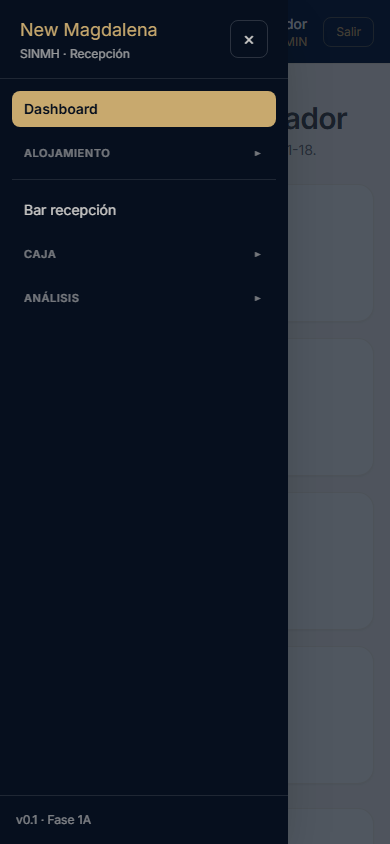
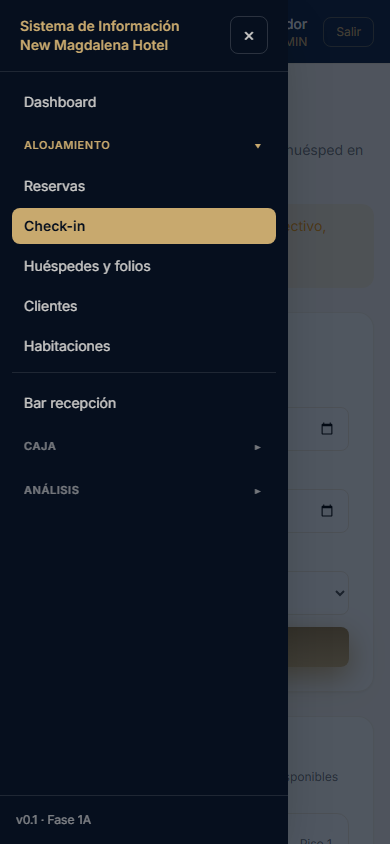
feat(ui): marca completa y breadcrumb por pantalla

diff --git a/frontend/src/components/AppLayout.tsx b/frontend/src/components/AppLayout.tsx
@@ -49,9 +49,33 @@ const navegacion: SeccionNavegacion[] = [
   },
 ];
 
+const breadcrumbs: Array<{ prefijo: string; modulo: string; pantalla: string }> = [
+  { prefijo: '/dashboard', modulo: 'Principal', pantalla: 'Dashboard' },
+  { prefijo: '/reservas', modulo: 'Alojamiento', pantalla: 'Reservas' },
+  { prefijo: '/checkin', modulo: 'Alojamiento', pantalla: 'Check-in' },
+  { prefijo: '/folios', modulo: 'Alojamiento', pantalla: 'Huéspedes y folios' },
+  { prefijo: '/clientes', modulo: 'Alojamiento', pantalla: 'Clientes' },
+  { prefijo: '/habitaciones', modulo: 'Alojamiento', pantalla: 'Habitaciones' },
+  { prefijo: '/bar', modulo: 'Bar y servicios', pantalla: 'Bar recepción' },
+  { prefijo: '/caja', modulo: 'Caja', pantalla: 'Caja y turnos' },
+  { prefijo: '/cartera', modulo: 'Caja', pantalla: 'Cartera' },
+  { prefijo: '/cuenta-socio', modulo: 'Caja', pantalla: 'Cuenta socio' },
+  { prefijo: '/reportes', modulo: 'Análisis', pantalla: 'Reportes' },
+  { prefijo: '/configuracion', modulo: 'Análisis', pantalla: 'Configuración' },
+];
+
+function obtenerBreadcrumb(pathname: string) {
+  const encontrado = breadcrumbs.find(
+    (item) => pathname === item.prefijo || pathname.startsWith(`${item.prefijo}/`)
+  );
+
+  return encontrado ?? { modulo: 'SINMH', pantalla: 'Recepción' };
+}
+
 export function AppLayout() {
   const { usuario, cerrarSesion } = useAuth();
   const location = useLocation();
+  const breadcrumb = obtenerBreadcrumb(location.pathname);
   const [menuMovil, setMenuMovil] = useState(false);
   const [seccionesAbiertas, setSeccionesAbiertas] = useState<Set<string>>(
     () => new Set()
@@ -202,8 +226,11 @@ export function AppLayout() {
     <div className="flex min-h-screen bg-cream">
       <aside className="hidden w-60 shrink-0 flex-col bg-navy-dark text-cream lg:flex">
         <div className="border-b border-white/10 px-6 py-5">
-          <p className="font-display text-lg text-gold">New Magdalena</p>
-          <p className="mt-0.5 text-xs text-cream/60">SINMH · Recepción</p>
+          <p className="font-display text-sm font-semibold leading-snug text-gold">
+            Sistema de Información
+            <br />
+            New Magdalena Hotel
+          </p>
         </div>
 
         {renderNavegacion()}
@@ -222,8 +249,11 @@ export function AppLayout() {
           <aside className="relative flex h-full w-72 max-w-[85vw] flex-col bg-navy-dark text-cream shadow-2xl">
             <div className="flex items-center justify-between border-b border-white/10 px-5 py-4">
               <div>
-                <p className="font-display text-lg text-gold">New Magdalena</p>
-                <p className="mt-0.5 text-xs text-cream/60">SINMH · Recepción</p>
+                <p className="font-display text-sm font-semibold leading-snug text-gold">
+                  Sistema de Información
+                  <br />
+                  New Magdalena Hotel
+                </p>
               </div>
               <button
                 type="button"
@@ -254,9 +284,12 @@ export function AppLayout() {
             >
               ☰
             </button>
-            <div>
-              <p className="text-sm font-medium">Recepción</p>
-              <p className="text-xs text-cream/60">Hotel New Magdalena</p>
+            <div className="min-w-0">
+              <p className="truncate text-sm font-medium text-cream">
+                <span className="hidden text-cream/50 sm:inline">{breadcrumb.modulo} / </span>
+                <span className="text-gold">{breadcrumb.pantalla}</span>
+              </p>
+              <p className="text-[11px] text-cream/45">Hotel New Magdalena</p>
             </div>
           </div>
 

diff --git a/frontend/src/pages/LoginPage.tsx b/frontend/src/pages/LoginPage.tsx
@@ -31,8 +31,11 @@ export function LoginPage() {
     <div className="flex min-h-screen items-center justify-center bg-navy-dark p-4">
       <div className="w-full max-w-md">
         <div className="mb-8 text-center">
-          <p className="font-display text-4xl text-gold">New Magdalena</p>
-          <p className="mt-2 text-sm text-cream/60">Sistema Integral · Recepción 24 horas</p>
+          <p className="font-display text-2xl font-semibold text-cream/70">
+            Sistema de Información
+          </p>
+          <p className="font-display text-3xl font-semibold text-gold">New Magdalena Hotel</p>
+          <p className="mt-2 text-sm text-cream/60">Recepción 24 horas</p>
         </div>
 
         <form onSubmit={onSubmit} className="rounded-2xl border border-gold/20 bg-cream p-8 shadow-2xl">

diff --git a/frontend/src/pages/BarPage.tsx b/frontend/src/pages/BarPage.tsx
@@ -171,7 +171,7 @@ export function BarPage() {
     <div className="space-y-6">
       <div className="flex flex-wrap items-end justify-between gap-3">
         <div>
-          <p className="text-sm font-medium text-gold-dark">Recepción</p>
+          <p className="text-sm font-medium text-gold-dark">Bar y servicios</p>
           <h1 className="font-display text-3xl text-stone">Bar recepción</h1>
           <p className="mt-1 text-sm text-stone-light">
             Venta de productos, cobro directo o cargo a la habitación.

diff --git a/frontend/src/pages/FoliosPage.tsx b/frontend/src/pages/FoliosPage.tsx
@@ -190,7 +190,7 @@ export function FoliosPage() {
     <div className="space-y-6">
       <div className="flex flex-wrap items-end justify-between gap-3">
         <div>
-          <p className="text-sm font-medium text-gold-dark">Recepción</p>
+          <p className="text-sm font-medium text-gold-dark">Alojamiento</p>
           <h1 className="font-display text-3xl text-stone">Huéspedes en casa</h1>
           <p className="mt-1 text-sm text-stone-light">
             Folios abiertos, cargos pendientes y check-out.

diff --git a/frontend/src/pages/ReportesPage.tsx b/frontend/src/pages/ReportesPage.tsx
@@ -107,7 +107,7 @@ export function ReportesPage() {
     <div className="space-y-6">
       <div className="flex flex-wrap items-end justify-between gap-3">
         <div>
-          <p className="text-sm font-medium text-gold-dark">Recepción</p>
+          <p className="text-sm font-medium text-gold-dark">Análisis</p>
           <h1 className="font-display text-3xl text-stone">Reportes</h1>
           <p className="mt-1 text-sm text-stone-light">
             Ingresos del día, ocupación y movimientos contables.

diff --git a/frontend/src/pages/CajaPage.tsx b/frontend/src/pages/CajaPage.tsx
@@ -259,7 +259,7 @@ export function CajaPage() {
     <div className="space-y-6">
       <div className="flex flex-wrap items-end justify-between gap-3">
         <div>
-          <p className="text-sm font-medium text-gold-dark">Recepción</p>
+          <p className="text-sm font-medium text-gold-dark">Caja</p>
           <h1 className="font-display text-3xl text-stone">Caja</h1>
           <p className="mt-1 text-sm text-stone-light">
             Apertura, movimientos y cierre del turno de recepción.

diff --git a/frontend/src/pages/CheckinPage.tsx b/frontend/src/pages/CheckinPage.tsx
@@ -281,7 +281,7 @@ export function CheckinPage() {
   return (
     <div className="space-y-6">
       <div>
-        <p className="text-sm font-medium text-gold-dark">Recepción</p>
+        <p className="text-sm font-medium text-gold-dark">Alojamiento</p>
         <h1 className="font-display text-3xl text-stone">Check-in</h1>
         <p className="mt-1 text-sm text-stone-light">
           Busca disponibilidad, cotiza y registra al huésped en una sola pantalla.

diff --git a/frontend/src/pages/ConfiguracionPage.tsx b/frontend/src/pages/ConfiguracionPage.tsx
@@ -126,7 +126,7 @@ export function ConfiguracionPage() {
   return (
     <div className="space-y-6">
       <div>
-        <p className="text-sm font-medium text-gold-dark">Recepción</p>
+        <p className="text-sm font-medium text-gold-dark">Análisis</p>
         <h1 className="font-display text-3xl text-stone">Usuarios y roles</h1>
         <p className="mt-1 text-sm text-stone-light">
           Crea las cuentas de recepción, caja y gerencia.

diff --git a/docs/design-system.md b/docs/design-system.md
@@ -72,9 +72,9 @@
 ## 3. Layout y estructura
 
 - **Contenedor global (`.container-hotel`):** `max-width: 1280px`, `padding-inline: 1.5rem` (24px).
-- **Sidebar:** 240px de ancho en desktop. Fondo `navy-dark`, texto `cream`. Las secciones con varios ítems se despliegan; los módulos de un solo ítem se muestran como enlace directo.
+- **Sidebar:** 240px de ancho en desktop. Fondo `navy-dark`, texto `cream`. Marca: **Sistema de Información New Magdalena Hotel**. Las secciones con varios ítems se despliegan; los módulos de un solo ítem se muestran como enlace directo.
+- **Topbar:** 64px de alto, fondo `navy`, texto `cream`. Muestra el breadcrumb módulo / pantalla y a la derecha el usuario y su rol.
 - **Móvil:** la sidebar se oculta y se abre como drawer de 288px con botón hamburguesa, overlay y cierre al elegir una pantalla.
-- **Topbar:** 64px de alto, fondo `navy`, texto `cream`. Contiene usuario, rol y notificaciones.
 - **Contenido:** fondo `cream`, cards con fondo `cream-dark` y bordes sutiles.
 - **Ritmo vertical:**
   - `.section-pad`: `6rem` (96px) arriba/abajo — para páginas de dashboard.

diff --git a/docs/design.md b/docs/design.md
@@ -46,9 +46,15 @@ La navegación es por módulos, no por pantallas sueltas. El sidebar mantiene el
 diseño de `design-system.md`: 240 px, fondo `navy-dark`, texto `cream`; topbar de
 64 px con usuario y rol.
 
+La marca del sidebar es **Sistema de Información New Magdalena Hotel**, sin
+abreviaturas. El topbar muestra un breadcrumb del módulo y la pantalla actual
+(`Alojamiento / Check-in`), no un “Recepción” genérico. El título y la
+descripción grande quedan en el contenido de la página.
+
 Las secciones del menú son desplegables: se abre la que se está usando y las
-demás quedan cerradas. En móvil el sidebar se convierte en un drawer con botón
-hamburguesa, overlay y cierre al elegir una pantalla o al presionar Escape.
+demás quedan cerradas. Los módulos con un solo ítem se muestran como enlace
+directo. En móvil el sidebar se convierte en un drawer con botón hamburguesa,
+overlay y cierre al elegir una pantalla o al presionar Escape.
 
 ### Pantallas por módulo
 

diff --git a/docs/requirements.md b/docs/requirements.md
@@ -324,9 +324,12 @@ la información principal del día.
 
 **Aceptación:**
 - Menú: Dashboard, Alojamiento, Bar y servicios, Caja, Reportes, Configuración.
+- La marca del sidebar dice “Sistema de Información New Magdalena Hotel”.
+- El topbar muestra el breadcrumb del módulo y la pantalla actual.
 - Dashboard muestra ocupación, llegadas, salidas, caja y ventas.
 - Cada módulo agrupa sus pantallas y acciones.
 - Las secciones del menú se despliegan y conservan su estado abierto.
+- Los módulos de un solo ítem se muestran como enlace directo.
 - En móvil el menú se abre como drawer y se cierra al elegir una pantalla.
 - Se usa `design-system.md` sin cambiar la identidad visual.
 

diff --git a/docs/tasks.md b/docs/tasks.md
@@ -286,9 +286,12 @@ design, design-system y tasks.
 
 **Aceptación:**
 - [x] El menú coincide con `design.md`.
+- [x] La marca del sidebar es “Sistema de Información New Magdalena Hotel”.
+- [x] El topbar muestra el breadcrumb módulo / pantalla.
 - [x] Cada módulo agrupa sus pantallas.
 - [x] Las rutas actuales siguen funcionando.
 - [x] Las secciones se despliegan y conservan su estado.
+- [x] Los módulos de un solo ítem son enlace directo.
 - [x] En móvil el menú funciona como drawer.
 
 ### T6.2 — Dashboard
